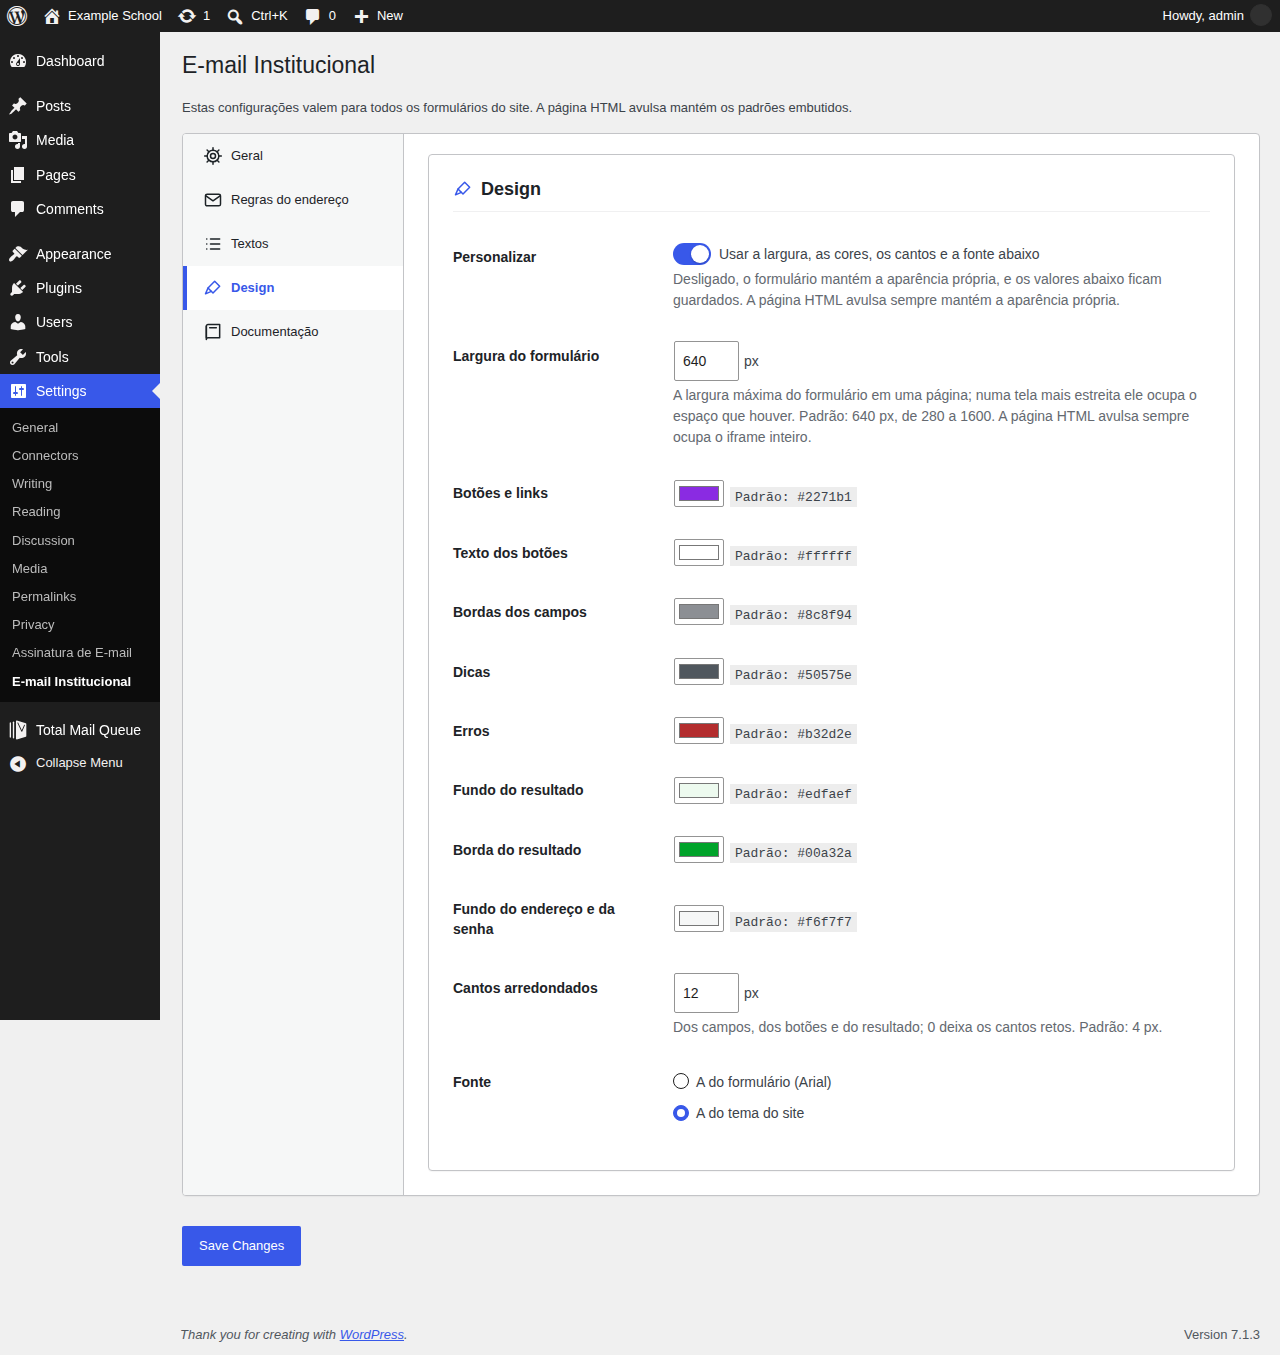
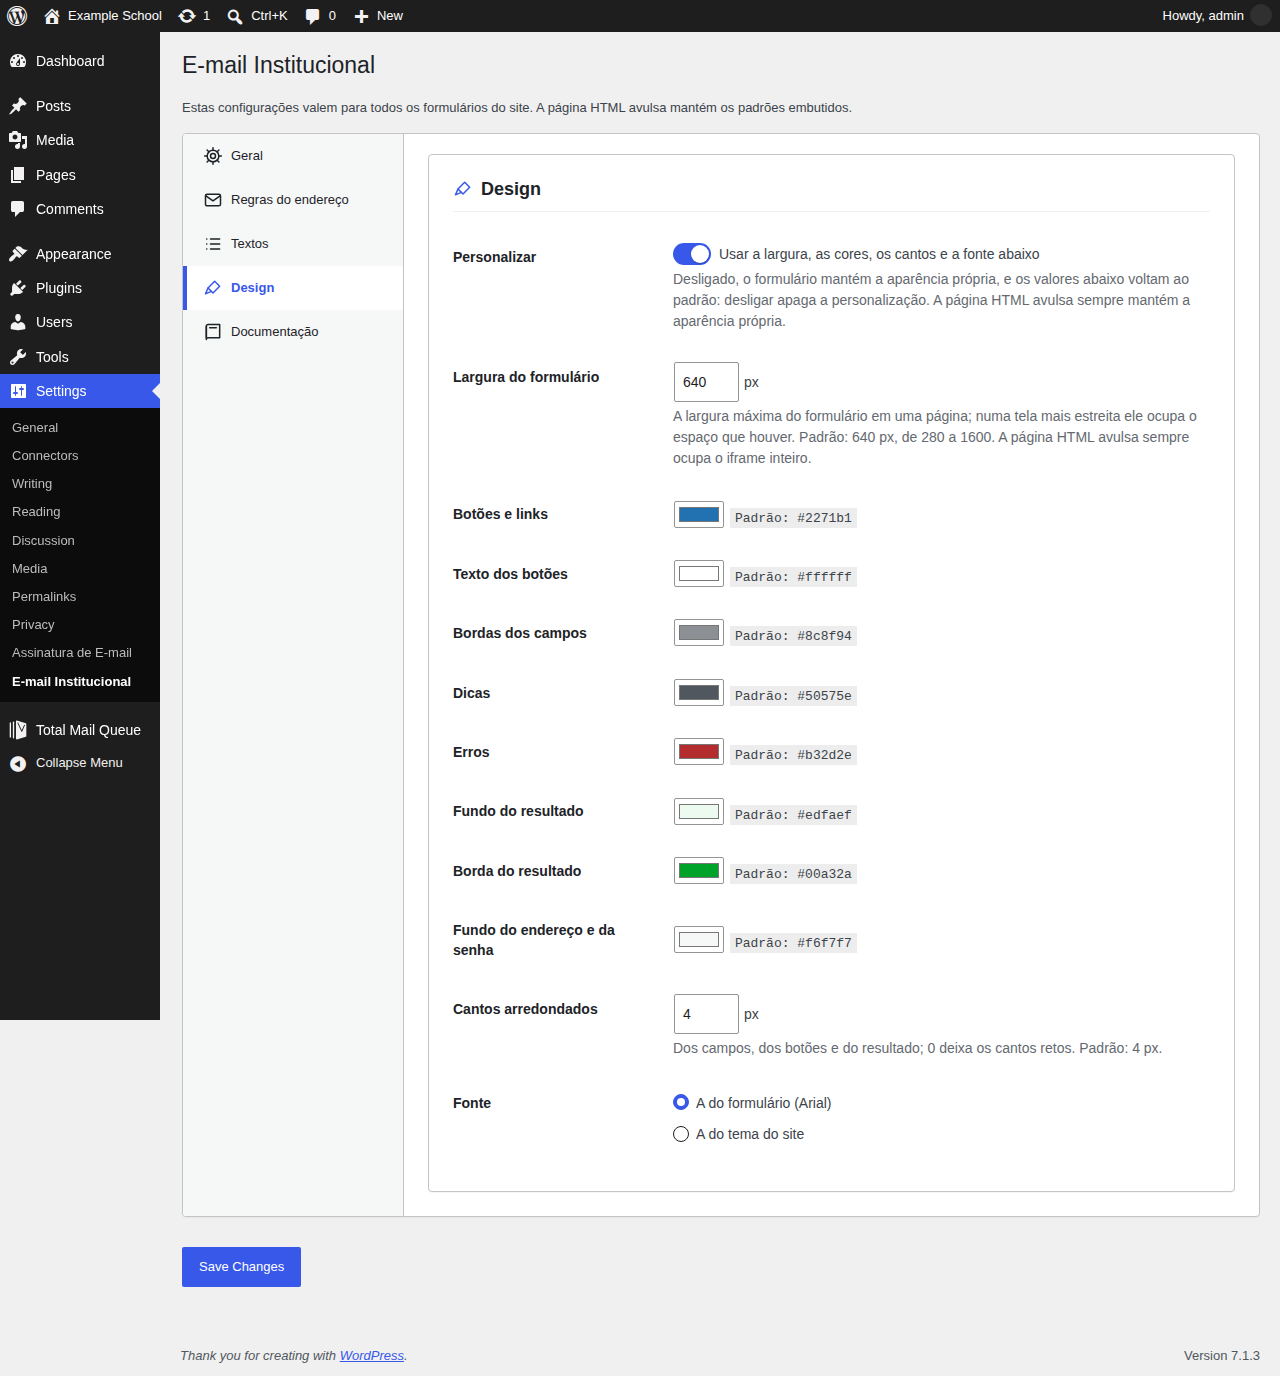
Clear the design when its switch goes off
Switching Customise off now resets the width, colours, corners and font
to their defaults, on the server whatever saves it (the switch's autosave
or Save Changes) and on the screen at once, so switching it on again
starts from the defaults rather than from what was set before.

Claude-Session: https://claude.ai/code/session_018srx5hc431EYmG4MHUr2KA

diff --git a/tests/js/admin-autosave.test.js b/tests/js/admin-autosave.test.js
@@ -103,6 +103,29 @@ describe( 'settings toggles', () => {
 		expect( body.getAll( 'value[]' ) ).toEqual( [ 'intern' ] );
 	} );
 
+	it( 'puts the design fields back to their defaults when the design is switched off', () => {
+		document.body.innerHTML = `<p>${ toggle( 'custom_style' ) }</p>
+			<table><tr data-ie-shown-by="custom_style"><td>
+				<input type="number" id="w" value="900" data-ie-default="640">
+				<input type="color" id="c" value="#aa0000" data-ie-default="#2271b1">
+				<input type="radio" name="f" id="f1" value="form" data-ie-default="form">
+				<input type="radio" name="f" id="f2" value="theme" data-ie-default="form" checked>
+			</td></tr></table>`;
+		boot( { success: true, data: { value: false } } );
+		const box = document.querySelector( 'input[data-ie-autosave]' );
+		box.checked = false;
+		box.dispatchEvent( new Event( 'change' ) );
+
+		expect( document.getElementById( 'w' ).value ).toBe( '640' );
+		expect( document.getElementById( 'c' ).value ).toBe( '#2271b1' );
+		expect( document.getElementById( 'f1' ).checked ).toBe( true );
+		expect( document.getElementById( 'f2' ).checked ).toBe( false );
+
+		box.checked = true;
+		box.dispatchEvent( new Event( 'change' ) );
+		expect( document.getElementById( 'w' ).value ).toBe( '640' );
+	} );
+
 	it( 'reverts the toggle and shows the server message on refusal', async () => {
 		document.body.innerHTML = `<p>${ toggle( 'some_toggle', '1', false ) }</p>`;
 		boot( { success: false, data: { message: 'Type a default first.' } } );

diff --git a/assets/js/admin-settings.js b/assets/js/admin-settings.js
@@ -144,6 +144,28 @@
 	syncShown();
 
 	/**
+	 * Switching the design off clears it: the fields it shows go back to
+	 * their defaults, as the server stores them, so switching it on again
+	 * starts from the defaults rather than from what was set before.
+	 */
+	var design = document.querySelector( 'input[type="checkbox"][data-ie-autosave="custom_style"]' );
+	if ( design ) {
+		design.addEventListener( 'change', function () {
+			if ( design.checked ) {
+				return;
+			}
+			document.querySelectorAll( '[data-ie-shown-by="custom_style"] [data-ie-default]' ).forEach( function ( field ) {
+				var initial = field.getAttribute( 'data-ie-default' );
+				if ( 'radio' === field.type ) {
+					field.checked = field.value === initial;
+				} else {
+					field.value = initial;
+				}
+			} );
+		} );
+	}
+
+	/**
 	 * Copy buttons: the field named by `data-ie-copy` goes to the
 	 * clipboard, and the button says so for a moment.
 	 */

diff --git a/src/admin/settings-page.php b/src/admin/settings-page.php
@@ -446,36 +446,39 @@ final class SettingsPage {
 				'key'     => 'custom_style',
 			)
 		);
-		echo '<p class="description">' . esc_html__( 'Off, the form keeps its own look, and the values below are kept for later. The standalone page always keeps its own look.', 'institutional-email' ) . '</p></td></tr>';
+		echo '<p class="description">' . esc_html__( 'Off, the form keeps its own look, and the values below go back to their defaults: switching it off clears the customisation. The standalone page always keeps its own look.', 'institutional-email' ) . '</p></td></tr>';
 		printf(
-			'<tr data-ie-shown-by="custom_style"><th scope="row"><label for="ie-form-width">%1$s</label></th><td><input type="number" id="ie-form-width" class="small-text" name="%2$s[form_width]" value="%3$d" min="%4$d" max="%5$d" step="10" required> px<p class="description">%6$s</p></td></tr>',
+			'<tr data-ie-shown-by="custom_style"><th scope="row"><label for="ie-form-width">%1$s</label></th><td><input type="number" id="ie-form-width" class="small-text" name="%2$s[form_width]" value="%3$d" data-ie-default="%7$d" min="%4$d" max="%5$d" step="10" required> px<p class="description">%6$s</p></td></tr>',
 			esc_html__( 'Form width', 'institutional-email' ),
 			esc_attr( $name ),
 			(int) $settings['form_width'],
 			(int) Settings::FORM_WIDTH_MIN,
 			(int) Settings::FORM_WIDTH_MAX,
 			/* translators: 1: default width, 2: minimum, 3: maximum, in pixels. */
-			esc_html( sprintf( __( 'The widest the form grows on a page; on a narrower screen it fills the space it has. Default: %1$d px, from %2$d to %3$d. The standalone page always fills its iframe.', 'institutional-email' ), Config::FORM_WIDTH, Settings::FORM_WIDTH_MIN, Settings::FORM_WIDTH_MAX ) )
+			esc_html( sprintf( __( 'The widest the form grows on a page; on a narrower screen it fills the space it has. Default: %1$d px, from %2$d to %3$d. The standalone page always fills its iframe.', 'institutional-email' ), Config::FORM_WIDTH, Settings::FORM_WIDTH_MIN, Settings::FORM_WIDTH_MAX ) ),
+			(int) Config::FORM_WIDTH
 		);
 		foreach ( self::colorLabels() as $key => $label ) {
 			printf(
-				'<tr data-ie-shown-by="custom_style"><th scope="row"><label for="ie-color-%1$s">%2$s</label></th><td><input type="color" id="ie-color-%1$s" name="%3$s[colors][%1$s]" value="%4$s"> <code>%5$s</code></td></tr>',
+				'<tr data-ie-shown-by="custom_style"><th scope="row"><label for="ie-color-%1$s">%2$s</label></th><td><input type="color" id="ie-color-%1$s" name="%3$s[colors][%1$s]" value="%4$s" data-ie-default="%6$s"> <code>%5$s</code></td></tr>',
 				esc_attr( $key ),
 				esc_html( $label ),
 				esc_attr( $name ),
 				esc_attr( $settings['colors'][ $key ] ),
 				/* translators: %s: the default colour, #rrggbb. */
-				esc_html( sprintf( __( 'Default: %s', 'institutional-email' ), Config::COLORS[ $key ] ) )
+				esc_html( sprintf( __( 'Default: %s', 'institutional-email' ), Config::COLORS[ $key ] ) ),
+				esc_attr( Config::COLORS[ $key ] )
 			);
 		}
 		printf(
-			'<tr data-ie-shown-by="custom_style"><th scope="row"><label for="ie-radius">%1$s</label></th><td><input type="number" id="ie-radius" class="small-text" name="%2$s[radius]" value="%3$d" min="0" max="%4$d" required> px<p class="description">%5$s</p></td></tr>',
+			'<tr data-ie-shown-by="custom_style"><th scope="row"><label for="ie-radius">%1$s</label></th><td><input type="number" id="ie-radius" class="small-text" name="%2$s[radius]" value="%3$d" data-ie-default="%6$d" min="0" max="%4$d" required> px<p class="description">%5$s</p></td></tr>',
 			esc_html__( 'Rounded corners', 'institutional-email' ),
 			esc_attr( $name ),
 			(int) $settings['radius'],
 			(int) Settings::RADIUS_MAX,
 			/* translators: %d: the default radius, in pixels. */
-			esc_html( sprintf( __( 'Of the fields, the buttons and the result; 0 makes them square. Default: %d px.', 'institutional-email' ), Config::RADIUS ) )
+			esc_html( sprintf( __( 'Of the fields, the buttons and the result; 0 makes them square. Default: %d px.', 'institutional-email' ), Config::RADIUS ) ),
+			(int) Config::RADIUS
 		);
 		echo '<tr data-ie-shown-by="custom_style"><th scope="row">' . esc_html__( 'Font', 'institutional-email' ) . '</th><td><fieldset>';
 		foreach ( array(
@@ -483,11 +486,12 @@ final class SettingsPage {
 			'theme' => __( 'The site theme\'s', 'institutional-email' ),
 		) as $value => $label ) {
 			printf(
-				'<label><input type="radio" name="%1$s[font]" value="%2$s"%3$s> %4$s</label><br>',
+				'<label><input type="radio" name="%1$s[font]" value="%2$s" data-ie-default="%5$s"%3$s> %4$s</label><br>',
 				esc_attr( $name ),
 				esc_attr( $value ),
 				checked( $settings['font'], $value, false ),
-				esc_html( $label )
+				esc_html( $label ),
+				esc_attr( Config::FONTS[0] )
 			);
 		}
 		echo '</fieldset></td></tr>';

diff --git a/languages/institutional-email-pt_BR.l10n.php b/languages/institutional-email-pt_BR.l10n.php
@@ -66,7 +66,7 @@ return array (
     'Design' => 'Design',
     'How the form looks on the site\'s pages.' => 'Como o formulário aparece nas páginas do site.',
     'Customise' => 'Personalizar',
-    'Off by default: the form keeps its own look. Switched on, it uses the width, colours, corners and font set here; switched off again, it goes back to its own look, and the values are kept.' => 'Desligado por padrão: o formulário mantém a aparência própria. Ligado, usa a largura, as cores, os cantos e a fonte definidos aqui; desligado de novo, volta à aparência própria, e os valores ficam guardados.',
+    'Off by default: the form keeps its own look. Switched on, it uses the width, colours, corners and font set here; switching it off clears the customisation, so the values go back to their defaults.' => 'Desligado por padrão: o formulário mantém a aparência própria. Ligado, usa a largura, as cores, os cantos e a fonte definidos aqui; desligar apaga a personalização, e os valores voltam ao padrão.',
     'Colours' => 'Cores',
     'Of the buttons and links, the button text, the field borders, the hints, the errors and the result. Keep the button text readable on the button colour.' => 'Dos botões e links, do texto dos botões, das bordas dos campos, das dicas, dos erros e do resultado. Mantenha o texto do botão legível sobre a cor do botão.',
     'Form width' => 'Largura do formulário',
@@ -147,7 +147,7 @@ return array (
     'Built-in text' => 'Texto embutido',
     'Text on this site' => 'Texto neste site',
     'Use the width, colours, corners and font below' => 'Usar a largura, as cores, os cantos e a fonte abaixo',
-    'Off, the form keeps its own look, and the values below are kept for later. The standalone page always keeps its own look.' => 'Desligado, o formulário mantém a aparência própria, e os valores abaixo ficam guardados. A página HTML avulsa sempre mantém a aparência própria.',
+    'Off, the form keeps its own look, and the values below go back to their defaults: switching it off clears the customisation. The standalone page always keeps its own look.' => 'Desligado, o formulário mantém a aparência própria, e os valores abaixo voltam ao padrão: desligar apaga a personalização. A página HTML avulsa sempre mantém a aparência própria.',
     'The widest the form grows on a page; on a narrower screen it fills the space it has. Default: %1$d px, from %2$d to %3$d. The standalone page always fills its iframe.' => 'A largura máxima do formulário em uma página; numa tela mais estreita ele ocupa o espaço que houver. Padrão: %1$d px, de %2$d a %3$d. A página HTML avulsa sempre ocupa o iframe inteiro.',
     'Default: %s' => 'Padrão: %s',
     'Rounded corners' => 'Cantos arredondados',

diff --git a/tests/Unit/SettingsTest.php b/tests/Unit/SettingsTest.php
@@ -140,7 +140,14 @@ final class SettingsTest extends TestCase {
 		self::assertStringContainsString( '--ie-radius: 24px', $vars );
 		self::assertStringNotContainsString( '--ie-font', $vars );
 		self::assertStringContainsString( '--ie-font: inherit', Settings::styleVars( array_merge( $saved, array( 'font' => 'theme' ) ) ) );
-		self::assertSame( '', Settings::styleVars( array_merge( $saved, array( 'custom_style' => false ) ) ), 'Switched off, the values are kept but not applied.' );
+		self::assertSame( '', Settings::styleVars( array_merge( $saved, array( 'custom_style' => false ) ) ), 'Switched off, nothing is applied.' );
+
+		$off = Settings::sanitize( array_merge( $saved, array( 'custom_style' => '0', 'form_width' => '900' ) ) );
+		self::assertSame( Config::COLORS, $off['colors'], 'Switching off clears the colours.' );
+		self::assertSame( Config::RADIUS, $off['radius'] );
+		self::assertSame( 'form', $off['font'] );
+		self::assertSame( Config::FORM_WIDTH, $off['form_width'] );
+		self::assertSame( Config::COLORS, Settings::sanitize( array_merge( $off, array( 'custom_style' => '1' ) ) )['colors'], 'Switched on again, it starts from the defaults.' );
 	}
 
 	public function test_analytics_is_off_by_default_and_takes_only_a_measurement_id(): void {
@@ -158,10 +165,10 @@ final class SettingsTest extends TestCase {
 
 	public function test_the_form_width_stays_in_range_and_a_cleared_field_keeps_the_default(): void {
 		self::assertSame( Config::FORM_WIDTH, Settings::sanitize( array() )['form_width'] );
-		self::assertSame( Config::FORM_WIDTH, Settings::sanitize( array( 'form_width' => '' ) )['form_width'], 'A cleared field is not zero pixels.' );
-		self::assertSame( Settings::FORM_WIDTH_MIN, Settings::sanitize( array( 'form_width' => '10' ) )['form_width'] );
-		self::assertSame( Settings::FORM_WIDTH_MAX, Settings::sanitize( array( 'form_width' => '99999' ) )['form_width'] );
-		self::assertSame( 800, Settings::sanitize( array( 'form_width' => '800' ) )['form_width'] );
+		self::assertSame( Config::FORM_WIDTH, Settings::sanitize( array( 'custom_style' => '1', 'form_width' => '' ) )['form_width'], 'A cleared field is not zero pixels.' );
+		self::assertSame( Settings::FORM_WIDTH_MIN, Settings::sanitize( array( 'custom_style' => '1', 'form_width' => '10' ) )['form_width'] );
+		self::assertSame( Settings::FORM_WIDTH_MAX, Settings::sanitize( array( 'custom_style' => '1', 'form_width' => '99999' ) )['form_width'] );
+		self::assertSame( 800, Settings::sanitize( array( 'custom_style' => '1', 'form_width' => '800' ) )['form_width'] );
 	}
 
 	public function test_the_password_is_plain_text_bounded_and_never_empty(): void {

diff --git a/src/settings.php b/src/settings.php
@@ -133,6 +133,10 @@ final class Settings {
 
 		$network = (string) ( $input['network'] ?? Config::NETWORKS[0] );
 
+		// Switching the design off resets it: the width, colours, corners and
+		// font go back to their defaults, so switching it on again starts clean.
+		$custom = ! empty( $input['custom_style'] );
+
 		return array(
 			'network'          => in_array( $network, Config::NETWORKS, true ) ? $network : Config::NETWORKS[0],
 			'forms'            => $forms,
@@ -140,17 +144,17 @@ final class Settings {
 			'domain'           => '' !== $domain ? $domain : Config::DOMAIN,
 			'password'         => $password,
 			'middle_min'       => min( self::MIDDLE_MIN_MAX, max( self::MIDDLE_MIN_MIN, $middle ) ),
-			'form_width'       => min( self::FORM_WIDTH_MAX, max( self::FORM_WIDTH_MIN, $width ) ),
+			'form_width'       => $custom ? min( self::FORM_WIDTH_MAX, max( self::FORM_WIDTH_MIN, $width ) ) : Config::FORM_WIDTH,
 			// Absent means \"never saved\": keep the default. The form posts a
 			// hidden 0 before the checkbox, so unticking it is never absent.
 			'check_rf_digit'   => array_key_exists( 'check_rf_digit', $input ) ? ! empty( $input['check_rf_digit'] ) : true,
 			'teacher_networks' => $teachers,
 			'analytics'        => ! empty( $input['analytics'] ),
 			'analytics_id'     => self::analyticsId( $input['analytics_id'] ?? '' ),
-			'custom_style'     => ! empty( $input['custom_style'] ),
-			'colors'           => self::colors( $input['colors'] ?? array() ),
-			'radius'           => min( self::RADIUS_MAX, max( 0, (int) ( $input['radius'] ?? Config::RADIUS ) ) ),
-			'font'             => in_array( $input['font'] ?? '', Config::FONTS, true ) ? (string) $input['font'] : Config::FONTS[0],
+			'custom_style'     => $custom,
+			'colors'           => $custom ? self::colors( $input['colors'] ?? array() ) : Config::COLORS,
+			'radius'           => $custom ? min( self::RADIUS_MAX, max( 0, (int) ( $input['radius'] ?? Config::RADIUS ) ) ) : Config::RADIUS,
+			'font'             => $custom && in_array( $input['font'] ?? '', Config::FONTS, true ) ? (string) $input['font'] : Config::FONTS[0],
 			'platform_name'    => mb_substr( sanitize_text_field( is_string( $input['platform_name'] ?? null ) ? $input['platform_name'] : '' ), 0, self::NAME_MAX ),
 			// Absent means "never saved": keep the default. An emptied field
 			// is a choice: the form then shows no next step.

diff --git a/src/admin/documentation.php b/src/admin/documentation.php
@@ -108,7 +108,7 @@ final class Documentation {
 				'tab'   => 'design',
 				'intro' => __( 'How the form looks on the site\'s pages.', 'institutional-email' ),
 				'items' => array(
-					array( __( 'Customise', 'institutional-email' ), __( 'Off by default: the form keeps its own look. Switched on, it uses the width, colours, corners and font set here; switched off again, it goes back to its own look, and the values are kept.', 'institutional-email' ) ),
+					array( __( 'Customise', 'institutional-email' ), __( 'Off by default: the form keeps its own look. Switched on, it uses the width, colours, corners and font set here; switching it off clears the customisation, so the values go back to their defaults.', 'institutional-email' ) ),
 					array( __( 'Colours', 'institutional-email' ), __( 'Of the buttons and links, the button text, the field borders, the hints, the errors and the result. Keep the button text readable on the button colour.', 'institutional-email' ) ),
 					array( __( 'Form width', 'institutional-email' ), __( 'The widest the form grows on a page, in pixels; on a narrower screen it fills the space it has.', 'institutional-email' ) ),
 					array( __( 'Rounded corners and font', 'institutional-email' ), __( 'The radius of the fields, buttons and result, and either the form\'s own font or the site theme\'s.', 'institutional-email' ) ),

diff --git a/tests/Unit/AutosaveTest.php b/tests/Unit/AutosaveTest.php
@@ -67,6 +67,13 @@ final class AutosaveTest extends TestCase {
 		$on = Autosave::apply( Settings::defaults(), 'custom_style', '1' );
 		self::assertIsArray( $on );
 		self::assertTrue( $on['custom_style'] );
+
+		$on['colors']['accent'] = '#aa0000';
+		$on['radius']           = 12;
+		$off                    = Autosave::apply( $on, 'custom_style', '0' );
+		self::assertIsArray( $off );
+		self::assertSame( Config::COLORS, $off['colors'], 'Switching off clears the design.' );
+		self::assertSame( Config::RADIUS, $off['radius'] );
 	}
 
 	public function test_no_form_ticked_offers_both(): void {

diff --git a/CHANGELOG.md b/CHANGELOG.md
@@ -17,7 +17,7 @@ The forms were created in 2020 by the Educational Technology team of E.M.E.F. Jo
 - **A standalone page for iframes** (#16). Each release attaches a self-contained HTML file, and GitHub Pages serves the latest one at rpgmem.github.io/institutional-email (`?form=teachers` for the teachers' form).
 - **Settings → Institutional Email** (#17). The forms offered and who may use them, the domain, how long a middle name must be to count, the initial password, the platform the result links to, and every text of the form, grouped by school network and by form (#26), with a Documentation tab explaining each.
 - **Updates from GitHub releases** (#18), each package checked against its published SHA-256.
-- **Settings → Design** (#30). Off by default, and then the form keeps its own look. Switched on, the form's width, the colours of the buttons, fields, hints, errors and result, the rounded corners and the font (the form's or the theme's) are set there; switched off again, the form goes back to its own look.
+- **Settings → Design** (#30). Off by default, and then the form keeps its own look. Switched on, the form's width, the colours of the buttons, fields, hints, errors and result, the rounded corners and the font (the form's or the theme's) are set there; switching it off clears the customisation, so it starts from the defaults when switched on again.
 - **Optional Google Analytics** (#29). Off by default, and then nothing of Google's is loaded. Switched on with a GA4 measurement ID, the pages with a form load Google's tag and record each address worked out with only the form and the network, never what was typed.
 - **São Paulo state schools (SEDUC-SP)** (#13). Settings → General chooses the school network; `network="state"` on a shortcode, or `?network=state` on the standalone page, serves it on one page. State students give their RA (padded with zeros to 12 digits), its check digit and their date of birth, which is also the initial password; state teachers are pointed to the SED, where their address is created.
 - **Interns of the city schools** (#24). The teachers' form offers them next to the two networks; they give their CPF and the address carries an "e" before its digits (`mariasilva.e52998224725`). Settings → General chooses which of the partner network, the direct network and interns the teachers' form offers (#25).
